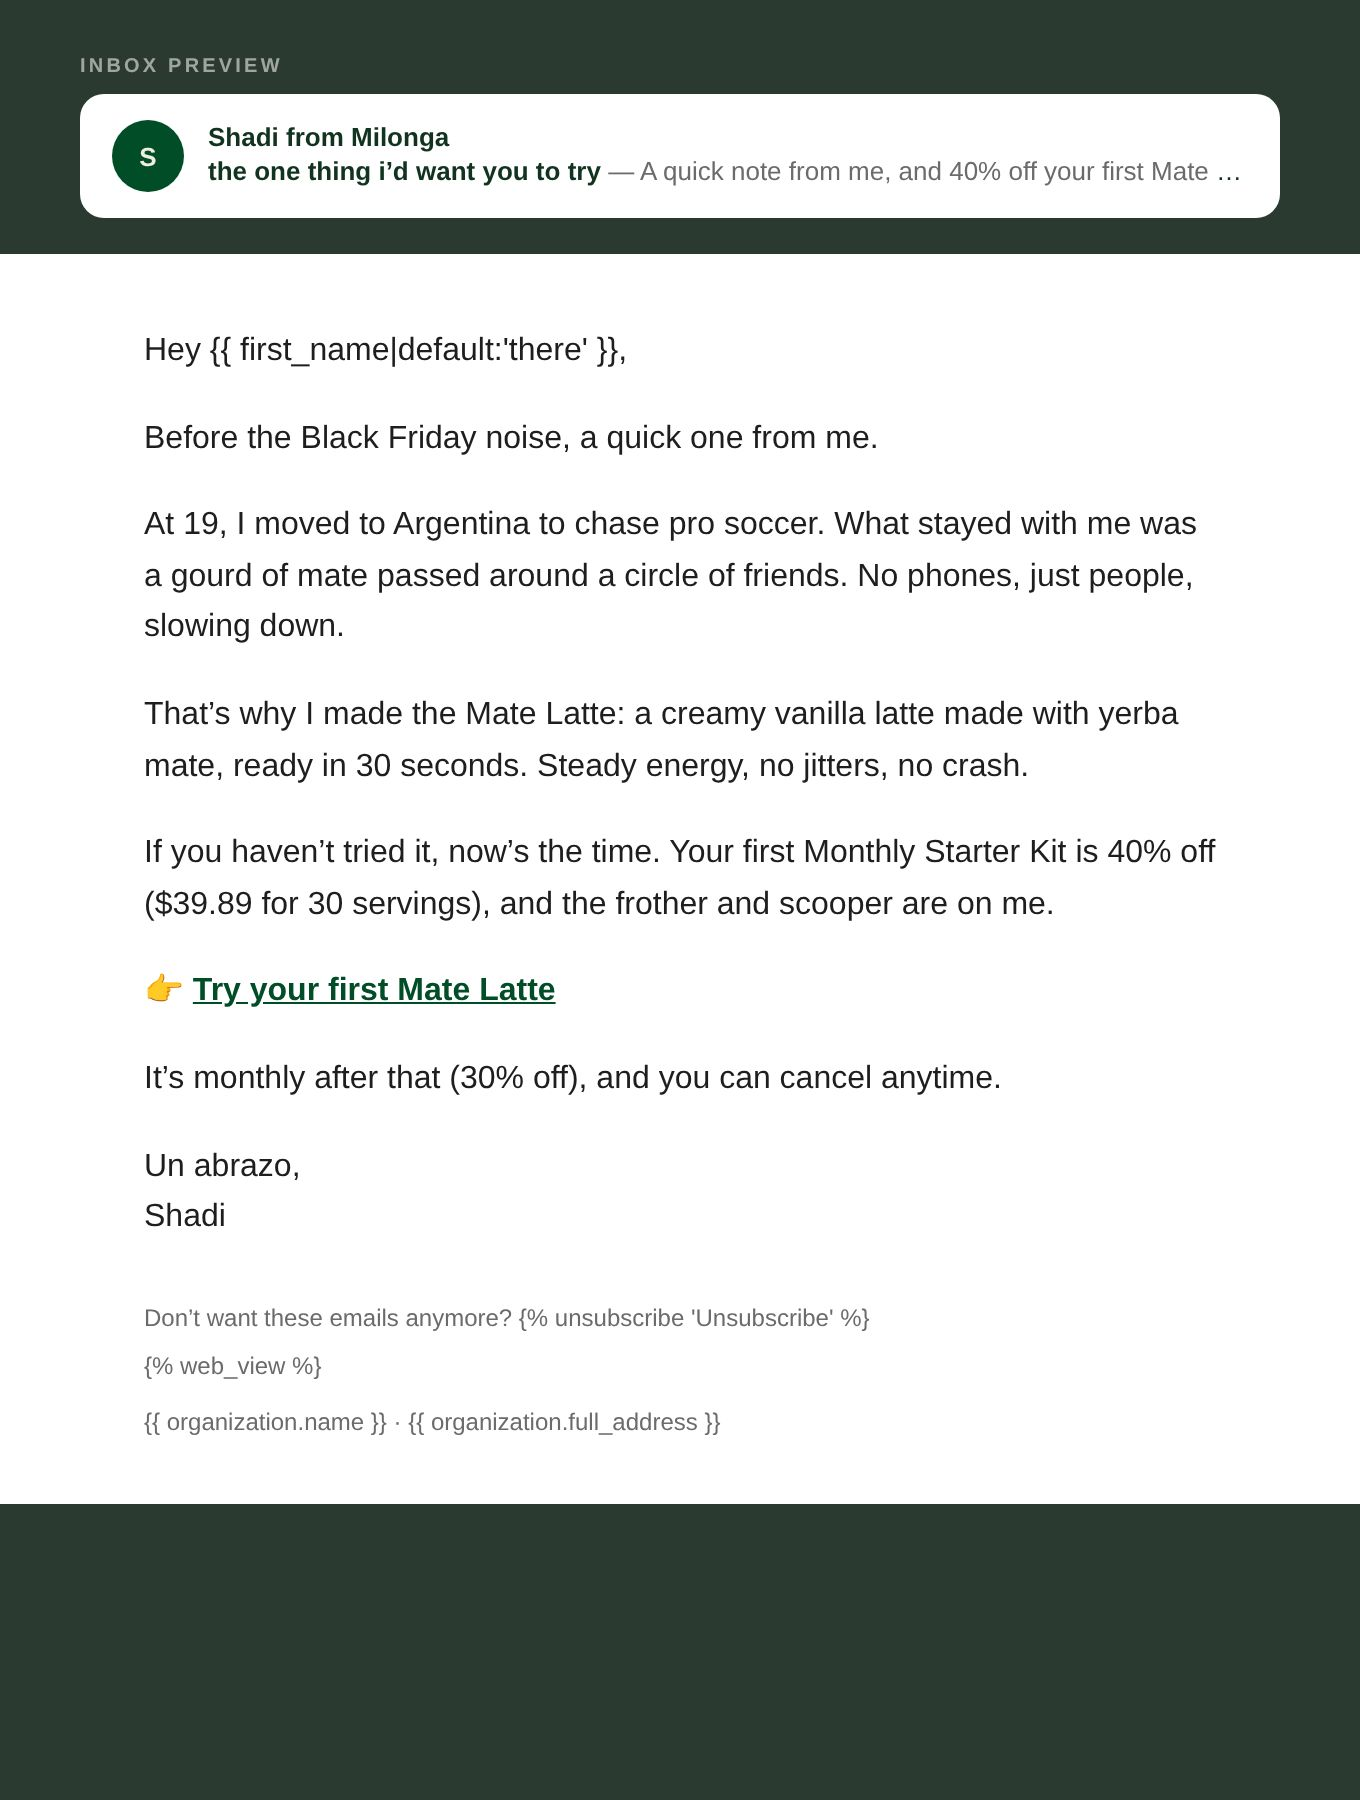
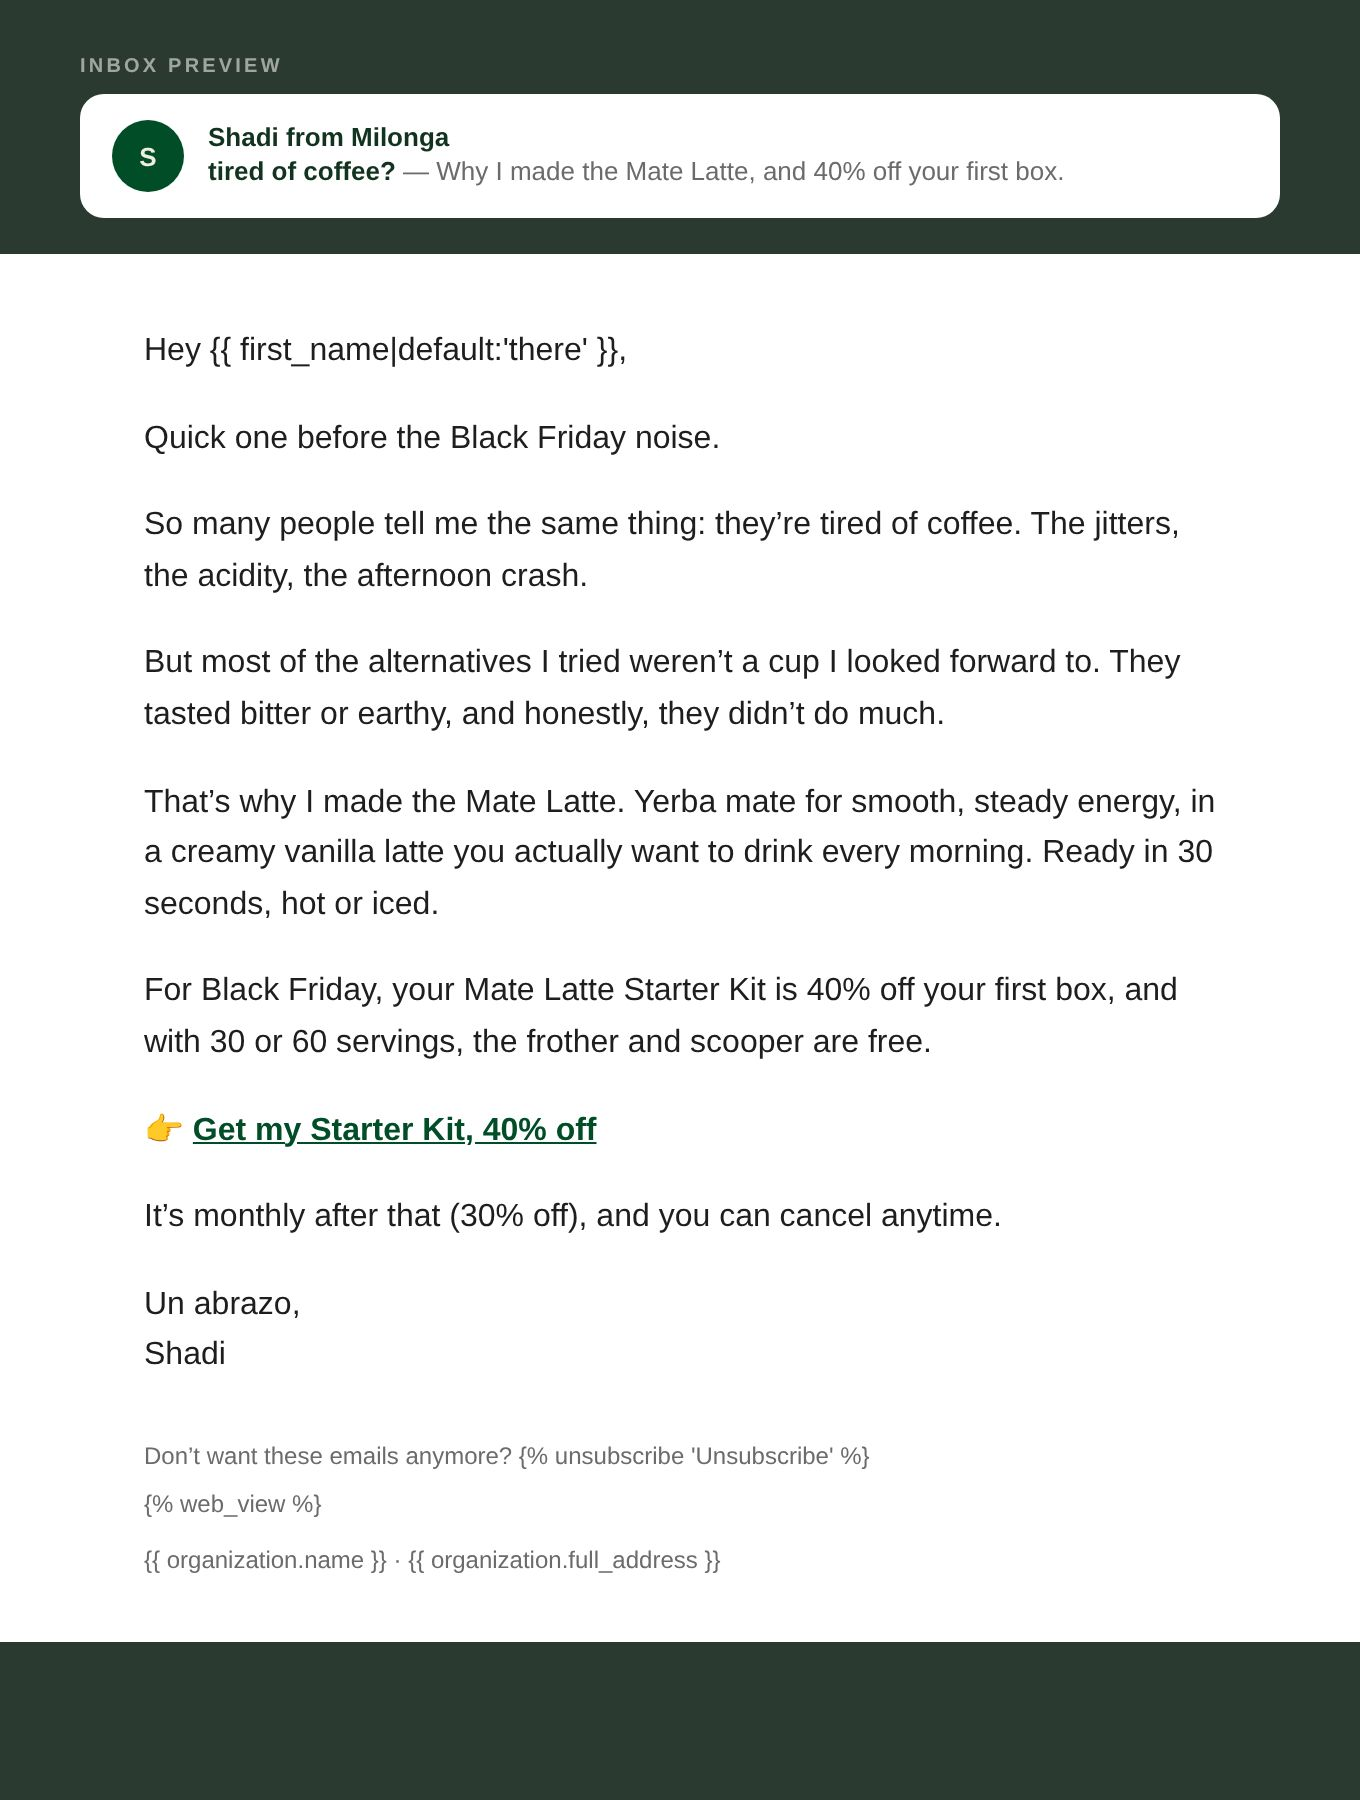
Shadi's Black Friday letter: tired of coffee, alternatives you don't look forward to, why the Mate Latte, Starter Kit 40% off
Claude-Session: https://claude.ai/code/session_01NhEtXPnfeCJfN73SqBkUZ5

diff --git a/email-ds/refine/bf-shadi.html b/email-ds/refine/bf-shadi.html
@@ -1,4 +1,4 @@
-<!doctype html><html><head><meta charset="utf-8"><meta name="viewport" content="width=device-width,initial-scale=1"><style>body{margin:0;background:#2B3A31;padding:28px 0 60px}.inbox{width:600px;max-width:calc(100% - 24px);margin:0 auto 18px;font-family:Helvetica,Arial,sans-serif}.lab{font-size:10px;font-weight:700;letter-spacing:.16em;text-transform:uppercase;color:rgba(255,255,255,.55);margin-bottom:8px}.row{background:#fff;border-radius:12px;padding:13px 16px;display:grid;grid-template-columns:36px 1fr;column-gap:12px;align-items:center}.av{grid-row:1/span 2;width:36px;height:36px;border-radius:50%;background:#004D27;color:#F0EFDF;display:grid;place-items:center;font-weight:900;font-size:13px}.from{font-weight:700;font-size:13px;color:#12331F}.sub{font-size:13px;line-height:1.4;color:#12331F;white-space:nowrap;overflow:hidden;text-overflow:ellipsis}.sub span{color:#6b6b6b}</style></head><body><div class="inbox"><div class="lab">Inbox preview</div><div class="row"><div class="av">S</div><div class="from">Shadi from Milonga</div><div class="sub"><b>the one thing i&rsquo;d want you to try</b> <span>&mdash; A quick note from me, and 40% off your first Mate Latte.</span></div></div></div><style>
+<!doctype html><html><head><meta charset="utf-8"><meta name="viewport" content="width=device-width,initial-scale=1"><style>body{margin:0;background:#2B3A31;padding:28px 0 60px}.inbox{width:600px;max-width:calc(100% - 24px);margin:0 auto 18px;font-family:Helvetica,Arial,sans-serif}.lab{font-size:10px;font-weight:700;letter-spacing:.16em;text-transform:uppercase;color:rgba(255,255,255,.55);margin-bottom:8px}.row{background:#fff;border-radius:12px;padding:13px 16px;display:grid;grid-template-columns:36px 1fr;column-gap:12px;align-items:center}.av{grid-row:1/span 2;width:36px;height:36px;border-radius:50%;background:#004D27;color:#F0EFDF;display:grid;place-items:center;font-weight:900;font-size:13px}.from{font-weight:700;font-size:13px;color:#12331F}.sub{font-size:13px;line-height:1.4;color:#12331F;white-space:nowrap;overflow:hidden;text-overflow:ellipsis}.sub span{color:#6b6b6b}</style></head><body><div class="inbox"><div class="lab">Inbox preview</div><div class="row"><div class="av">S</div><div class="from">Shadi from Milonga</div><div class="sub"><b>tired of coffee?</b> <span>&mdash; Why I made the Mate Latte, and 40% off your first box.</span></div></div></div><style>
   .unsub-pill a { color:#6B6B6B !important; text-decoration:underline !important; }
   .web-view-line a { color:#6B6B6B !important; }
   @media only screen and (max-width:620px) { .wrap { width:100% !important; } .pad { padding:28px 22px !important; } }
@@ -8,11 +8,12 @@
 <tr><td class="pad" align="left" style="padding:36px 32px 28px;font-family:Helvetica, Arial, sans-serif;font-size:16px;line-height:1.6;color:#1E1E1E;">
 
 <p style="margin:0 0 18px;">Hey {{ first_name|default:'there' }},</p>
-<p style="margin:0 0 18px;">Before the Black Friday noise, a quick one from me.</p>
-<p style="margin:0 0 18px;">At 19, I moved to Argentina to chase pro soccer. What stayed with me was a gourd of mate passed around a circle of friends. No phones, just people, slowing down.</p>
-<p style="margin:0 0 18px;">That&rsquo;s why I made the Mate Latte: a creamy vanilla latte made with yerba mate, ready in 30 seconds. Steady energy, no jitters, no crash.</p>
-<p style="margin:0 0 18px;">If you haven&rsquo;t tried it, now&rsquo;s the time. Your first Monthly Starter Kit is 40% off ($39.89 for 30 servings), and the frother and scooper are on me.</p>
-<p style="margin:0 0 18px;">👉 <a href="https://milonga.life/products/the-original-mate-latte?selling_plan=8837562678&amp;variant=54302750245174&amp;utm_source=klaviyo&amp;utm_medium=email&amp;utm_campaign=black_friday_2026&amp;utm_content=shadi_kit_link" target="_blank" style="color:#004D27;font-weight:bold;text-decoration:underline;">Try your first Mate Latte</a></p>
+<p style="margin:0 0 18px;">Quick one before the Black Friday noise.</p>
+<p style="margin:0 0 18px;">So many people tell me the same thing: they&rsquo;re tired of coffee. The jitters, the acidity, the afternoon crash.</p>
+<p style="margin:0 0 18px;">But most of the alternatives I tried weren&rsquo;t a cup I looked forward to. They tasted bitter or earthy, and honestly, they didn&rsquo;t do much.</p>
+<p style="margin:0 0 18px;">That&rsquo;s why I made the Mate Latte. Yerba mate for smooth, steady energy, in a creamy vanilla latte you actually want to drink every morning. Ready in 30 seconds, hot or iced.</p>
+<p style="margin:0 0 18px;">For Black Friday, your Mate Latte Starter Kit is 40% off your first box, and with 30 or 60 servings, the frother and scooper are free.</p>
+<p style="margin:0 0 18px;">👉 <a href="https://milonga.life/products/the-original-mate-latte?selling_plan=8837562678&amp;variant=54302750245174&amp;utm_source=klaviyo&amp;utm_medium=email&amp;utm_campaign=black_friday_2026&amp;utm_content=shadi_kit_link" target="_blank" style="color:#004D27;font-weight:bold;text-decoration:underline;">Get my Starter Kit, 40% off</a></p>
 <p style="margin:0 0 18px;">It&rsquo;s monthly after that (30% off), and you can cancel anytime.</p>
 <p style="margin:0 0 0px;">Un abrazo,<br>Shadi</p>
 

diff --git a/email-ds/exports/klaviyo/bf-shadi/bf-shadi.html b/email-ds/exports/klaviyo/bf-shadi/bf-shadi.html
@@ -4,10 +4,10 @@
 <meta charset="utf-8">
 <meta name="viewport" content="width=device-width, initial-scale=1">
 <meta name="x-apple-disable-message-reformatting">
-<title>the one thing i’d want you to try</title>
+<title>tired of coffee?</title>
 <!--
-  CAMPAIGN · BLACK FRIDAY 2026 · A LETTER FROM SHADI · "the one thing i’d want you to try"
-  Preview text: A quick note from me, and 40% off your first Mate Latte.
+  CAMPAIGN · BLACK FRIDAY 2026 · A LETTER FROM SHADI · "tired of coffee?"
+  Preview text: Why I made the Mate Latte, and 40% off your first box.
   From: Shadi from Milonga · reply-to: an inbox Shadi reads · audience: never ordered the Mate Latte
   A plain letter: no images, one link. Full document for a Klaviyo code template. GENERATED by scripts/make-bf-shadi.mjs.
 -->
@@ -24,11 +24,12 @@
 <tr><td class="pad" align="left" style="padding:36px 32px 28px;font-family:Helvetica, Arial, sans-serif;font-size:16px;line-height:1.6;color:#1E1E1E;">
 
 <p style="margin:0 0 18px;">Hey {{ first_name|default:'there' }},</p>
-<p style="margin:0 0 18px;">Before the Black Friday noise, a quick one from me.</p>
-<p style="margin:0 0 18px;">At 19, I moved to Argentina to chase pro soccer. What stayed with me was a gourd of mate passed around a circle of friends. No phones, just people, slowing down.</p>
-<p style="margin:0 0 18px;">That&rsquo;s why I made the Mate Latte: a creamy vanilla latte made with yerba mate, ready in 30 seconds. Steady energy, no jitters, no crash.</p>
-<p style="margin:0 0 18px;">If you haven&rsquo;t tried it, now&rsquo;s the time. Your first Monthly Starter Kit is 40% off ($39.89 for 30 servings), and the frother and scooper are on me.</p>
-<p style="margin:0 0 18px;">👉 <a href="https://milonga.life/products/the-original-mate-latte?selling_plan=8837562678&amp;variant=54302750245174&amp;utm_source=klaviyo&amp;utm_medium=email&amp;utm_campaign=black_friday_2026&amp;utm_content=shadi_kit_link" target="_blank" style="color:#004D27;font-weight:bold;text-decoration:underline;">Try your first Mate Latte</a></p>
+<p style="margin:0 0 18px;">Quick one before the Black Friday noise.</p>
+<p style="margin:0 0 18px;">So many people tell me the same thing: they&rsquo;re tired of coffee. The jitters, the acidity, the afternoon crash.</p>
+<p style="margin:0 0 18px;">But most of the alternatives I tried weren&rsquo;t a cup I looked forward to. They tasted bitter or earthy, and honestly, they didn&rsquo;t do much.</p>
+<p style="margin:0 0 18px;">That&rsquo;s why I made the Mate Latte. Yerba mate for smooth, steady energy, in a creamy vanilla latte you actually want to drink every morning. Ready in 30 seconds, hot or iced.</p>
+<p style="margin:0 0 18px;">For Black Friday, your Mate Latte Starter Kit is 40% off your first box, and with 30 or 60 servings, the frother and scooper are free.</p>
+<p style="margin:0 0 18px;">👉 <a href="https://milonga.life/products/the-original-mate-latte?selling_plan=8837562678&amp;variant=54302750245174&amp;utm_source=klaviyo&amp;utm_medium=email&amp;utm_campaign=black_friday_2026&amp;utm_content=shadi_kit_link" target="_blank" style="color:#004D27;font-weight:bold;text-decoration:underline;">Get my Starter Kit, 40% off</a></p>
 <p style="margin:0 0 18px;">It&rsquo;s monthly after that (30% off), and you can cancel anytime.</p>
 <p style="margin:0 0 0px;">Un abrazo,<br>Shadi</p>
 
